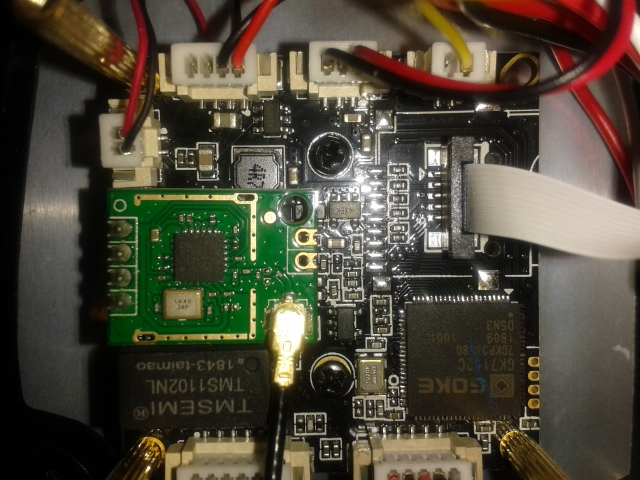
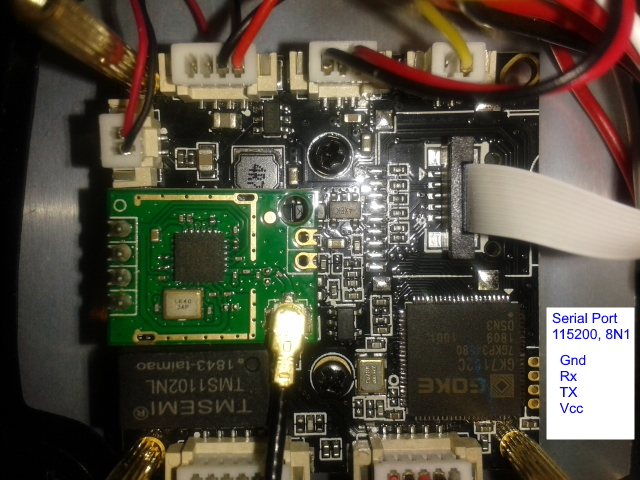
Add serial port info:

Changed region(s): [[0.8438, 0.625, 1.0, 0.9375]]

diff --git a/README.md b/README.md
@@ -533,6 +533,22 @@ and I can't find a way to connect to it.
 
 Can I find any place to attach a tty? 
 
+Yay! I got it unbricked. xxx and yyy identified what seemed to 
+be serial port pads. I read 
+http://www.devttys0.com/2012/11/reverse-engineering-serial-ports/   
+and yes, was 
+able to connect via a USB to Serial adapter to my laptop, and use
+PuTTy to log in as root and fix my broken permissions.  So the 
+camera is now unbricked. Thanks, guys!
+
+The pin mapping and the baudrate setting are overlayed in the pics below.
+
+With the additional serial port breakout on this camera I've put it
+on my desk as my "test more ideas" camera.  Watching the console at
+boot and initialization time gives me more information than I can
+get otherwise.
+
+
 ## What's inside the housing?
 
 Here are a couple of photos.  The camera build quality looks great.
@@ -572,9 +588,5 @@ control the PSPCamera hardware: change the stream frame rate,
 control the LEDs remotely, set regions of interest for motion 
 detection, or speak back through the camera. 
 
-Or if you find a serial console connection, let me know where and I'll
-attempt to unbrick my bricked camera. 
- 
-
-*Last Revision 5 September 2019*  
+*Last Revision 10 September 2019*  
 mailto:cspwcspw@gmail.com 
